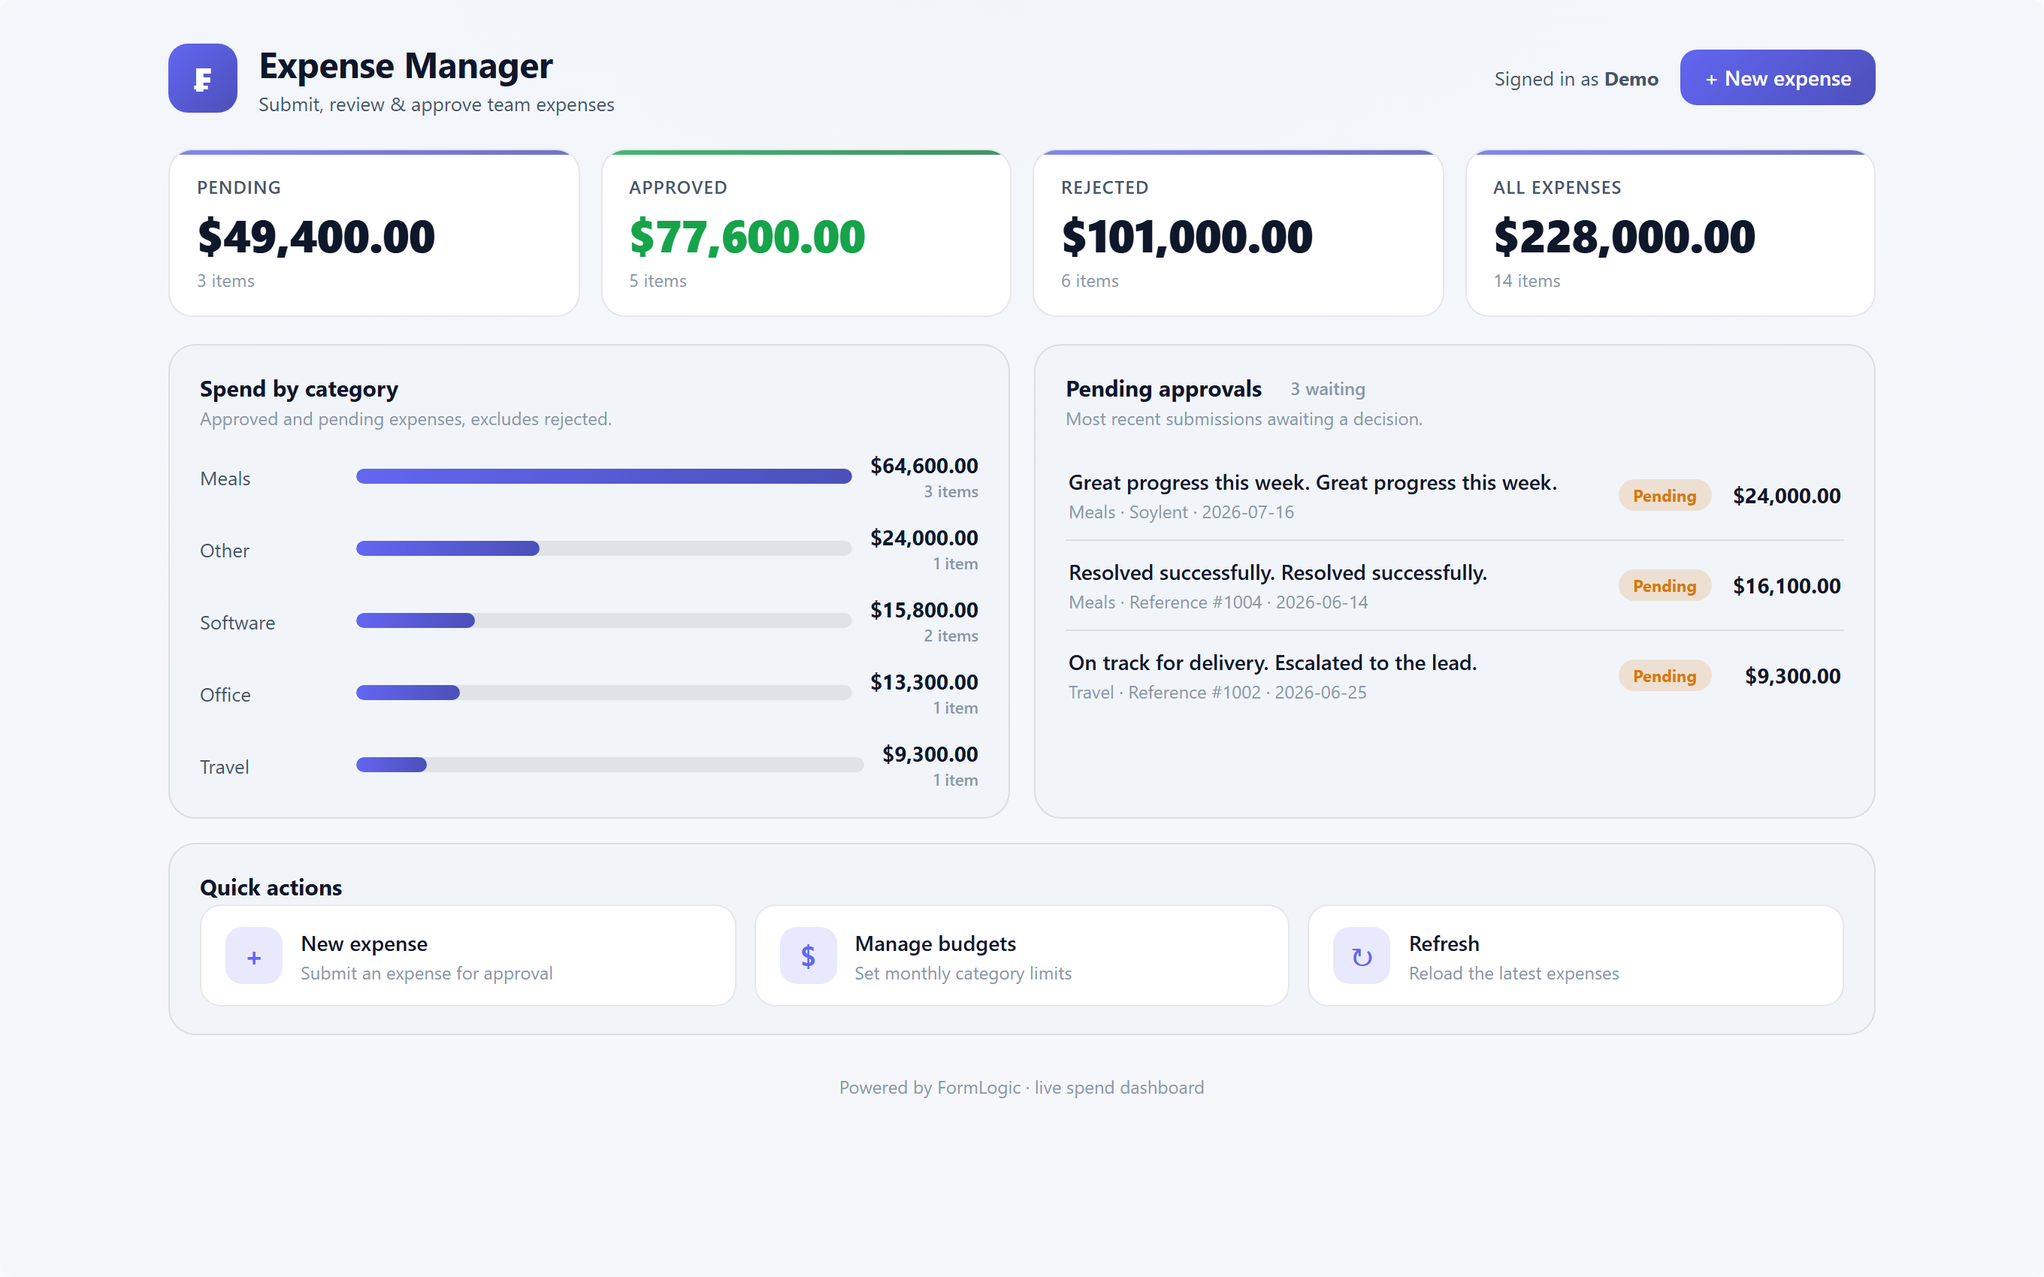
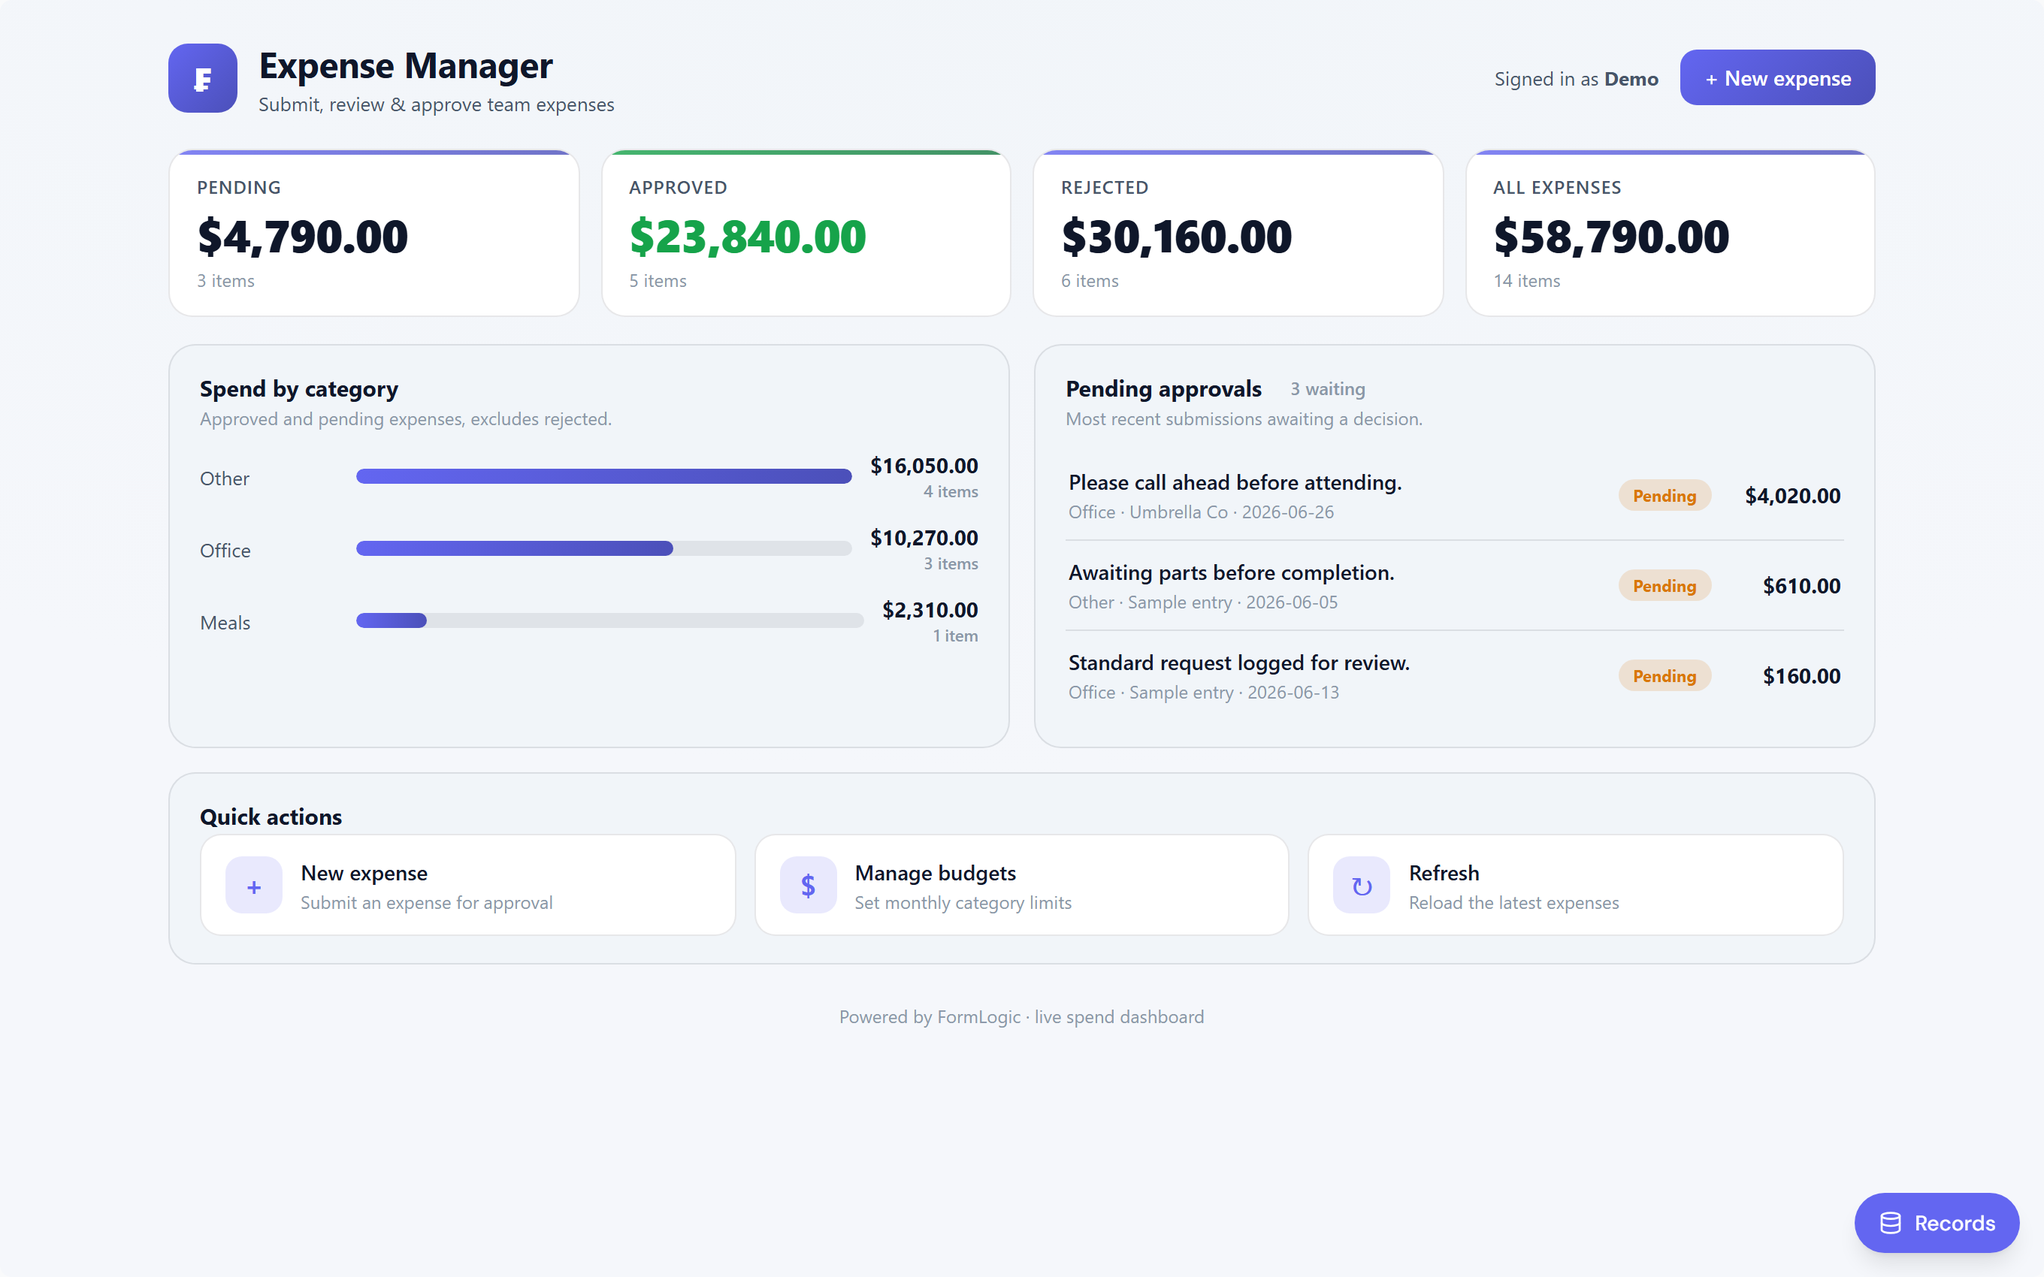
Demo data: domain-aware seeding + pack-manager thumbnails + repo cleanup
- Seeder is now domain-aware: it uses the FORM name + field label together, so
  demo data makes sense per app — Inventory shows real products + SKU codes,
  Mechanic shows car makes/models + plates, Salon shows services, invoices/POs
  get INV-/PO- refs, money vs quantity vs year/hours are distinguished, etc.
  (was: person names in every text field, e.g. a product named "Marie Curie").
- provision-demo.php gains RESEED_DEMO=1 to regenerate demo responses in place
  (clears each pack's responses + linked-record rows, re-seeds per pack) WITHOUT
  reinstalling, so app slugs + screenshots stay stable. All 16 dashboards
  re-captured with the improved data.
- Pack manager (Manage Packs / PackImportModal) now shows the dashboard preview
  thumbnail on each card, matching the marketplace gallery.
- Repo hygiene: removed 3 stale committed .sqlite form databases from
  backend/storage/forms (now gitignored) + added a .gitkeep so the dir persists.

Fresh install already ships everything needed: 13 marketplace-pack JSONs, 16
dashboard screenshots, and 3 sample apps are committed under backend/resources,
and `php scripts/provision-demo.php` seeds the whole catalog + populated demo.

Claude-Session: https://claude.ai/code/session_0126P4mQje54uEQ9gFusf58Y

diff --git a/form-builder/ui/src/components/builder/PackImportModal.tsx b/form-builder/ui/src/components/builder/PackImportModal.tsx
@@ -24,7 +24,7 @@ import {
 import { Button } from '../ui/Button';
 import { Modal } from '../ui/Modal';
 import { Badge } from '../ui/Badge';
-import { api, type PackData, type PackImportResult, type PackInstallation, type CatalogPack } from '../../lib/api';
+import { api, resolveFileUrl, type PackData, type PackImportResult, type PackInstallation, type CatalogPack } from '../../lib/api';
 import { toast } from '../../stores/toastStore';
 import { useFormStore } from '../../stores/formStore';
 import { useAppStore } from '../../stores/appStore';
@@ -501,6 +501,18 @@ export function PackImportModal({ isOpen, onClose, initialTab }: PackImportModal
                         onClick={() => setSelectedSlug(pack.slug)}
                         className="text-left p-4 rounded-xl border border-gray-200 dark:border-slate-800 bg-white dark:bg-slate-900/80 hover:border-primary-300 dark:hover:border-primary-500/40 hover:shadow-md hover:shadow-primary-500/5 transition-all cursor-pointer group"
                       >
+                        {/* Dashboard preview (captured screenshot) */}
+                        {pack.screenshot && (
+                          <div className="mb-3 aspect-[16/10] overflow-hidden rounded-lg border border-gray-100 dark:border-slate-800 bg-gray-50 dark:bg-slate-800">
+                            <img
+                              src={resolveFileUrl(pack.screenshot)}
+                              alt={`${pack.name} dashboard preview`}
+                              loading="lazy"
+                              className="h-full w-full object-cover object-top"
+                            />
+                          </div>
+                        )}
+
                         {/* Card header: icon + name row */}
                         <div className="flex items-center gap-3 mb-2">
                           <span className="text-2xl leading-none flex-shrink-0">{pack.icon || '📦'}</span>

diff --git a/form-builder/backend/scripts/provision-demo.php b/form-builder/backend/scripts/provision-demo.php
@@ -222,6 +222,34 @@ foreach ($sources as $s) {
     out("  demo: installed " . count($res['forms'] ?? []) . " forms / " . count($res['apps'] ?? []) . " apps, seeded $n responses");
 }
 
+// ── Optional: regenerate demo data in place (RESEED_DEMO=1) ──────────────────
+// Re-run the (domain-aware) seeder over ALREADY-installed demo apps without reinstalling — app slugs and
+// screenshots stay stable. Clears each pack's form responses + linked-record rows, then re-seeds per pack
+// so the 2-pass linked-record resolution stays within the pack. createResponse re-syncs response_count.
+if ($_ENV['RESEED_DEMO'] ?? getenv('RESEED_DEMO')) {
+    $instStmt = $pdo->prepare("SELECT form_ids FROM pack_installations WHERE user_id = ? ORDER BY installed_at");
+    $instStmt->execute([$demoId]);
+    $reseeded = 0; $packsReseeded = 0;
+    foreach ($instStmt->fetchAll(PDO::FETCH_COLUMN) as $fj) {
+        $formIds = json_decode((string) $fj, true) ?: [];
+        if (!$formIds) { continue; }
+        foreach ($formIds as $fid) {
+            if ($sqlite->formDatabaseExists($fid)) {
+                try {
+                    $db = $sqlite->getFormDatabase($fid);
+                    foreach (['responses', 'computed', 'tags', 'script_logs'] as $t) {
+                        try { $db->exec("DELETE FROM $t"); } catch (\Throwable $e) { /* table may not exist */ }
+                    }
+                } catch (\Throwable $e) { /* skip */ }
+            }
+            $pdo->prepare("DELETE FROM response_links WHERE source_form_id = ? OR target_form_id = ?")->execute([$fid, $fid]);
+        }
+        $reseeded += seedResponses($forms, $responses, array_map(static fn ($id) => ['id' => $id], $formIds));
+        $packsReseeded++;
+    }
+    out("RESEED: regenerated $reseeded responses across $packsReseeded demo pack(s)");
+}
+
 // ── Screenshot manifest + linking ───────────────────────────────────────────
 // Emit a manifest mapping each catalog pack → the demo app slug that renders its dashboard, so the
 // capture pipeline (ui/scripts/capture-pack-shots.mjs) can visit /app/<appSlug> and save
@@ -290,7 +318,7 @@ function seedResponses(FormService $formService, ResponseService $responseServic
     $defs = [];
     foreach ($createdForms as $cf) {
         $full = $formService->getForm($cf['id']);
-        if ($full) { $defs[$cf['id']] = $full['fields'] ?? []; }
+        if ($full) { $defs[$cf['id']] = ['title' => (string) ($full['title'] ?? ''), 'fields' => $full['fields'] ?? []]; }
     }
     $hasLink = static function (array $fields): bool {
         foreach ($fields as $f) { if (($f['type'] ?? '') === 'linked_record') { return true; } }
@@ -299,29 +327,31 @@ function seedResponses(FormService $formService, ResponseService $responseServic
     $seeded = []; // formId => [responseIds]
     $total = 0;
     // Pass A: forms with no linked_record.
-    foreach ($defs as $fid => $fields) {
-        if ($hasLink($fields)) { continue; }
-        $seeded[$fid] = seedForm($responseService, $fid, $fields, $seeded);
+    foreach ($defs as $fid => $def) {
+        if ($hasLink($def['fields'])) { continue; }
+        $seeded[$fid] = seedForm($responseService, $fid, $def, $seeded);
         $total += count($seeded[$fid]);
     }
     // Pass B: forms that reference others.
-    foreach ($defs as $fid => $fields) {
-        if (!$hasLink($fields)) { continue; }
-        $seeded[$fid] = seedForm($responseService, $fid, $fields, $seeded);
+    foreach ($defs as $fid => $def) {
+        if (!$hasLink($def['fields'])) { continue; }
+        $seeded[$fid] = seedForm($responseService, $fid, $def, $seeded);
         $total += count($seeded[$fid]);
     }
     return $total;
 }
 
 /** Create N plausible responses for one form. Returns the created response ids. */
-function seedForm(ResponseService $responseService, string $formId, array $fields, array $seeded): array
+function seedForm(ResponseService $responseService, string $formId, array $def, array $seeded): array
 {
+    $fields = $def['fields'] ?? [];
+    $formName = strtolower((string) ($def['title'] ?? ''));
     $ids = [];
     $count = random_int(9, 14);
     for ($i = 0; $i < $count; $i++) {
         $answers = [];
         foreach ($fields as $f) {
-            $v = genValue($f, $i, $seeded);
+            $v = genValue($f, $i, $seeded, $formName);
             if ($v !== null) { $answers[$f['id']] = $v; }
         }
         try {
@@ -334,18 +364,33 @@ function seedForm(ResponseService $responseService, string $formId, array $field
     return $ids;
 }
 
-/** Generate a plausible value for a field, or null to leave it empty. */
-function genValue(array $field, int $i, array $seeded)
+/**
+ * Generate a plausible value for a field, or null to leave it empty. Uses the FORM name + field label
+ * together (`$ctx`) so demo data is domain-relevant — a "Name" field in a Product form yields a product,
+ * in a Vehicle form the make/model yields a car, in a Salon Service form yields a service, etc.
+ */
+function genValue(array $field, int $i, array $seeded, string $formName = '')
 {
     $type = $field['type'] ?? 'short_text';
     $label = strtolower((string) ($field['label'] ?? $field['id'] ?? ''));
+    $ctx = trim($formName . ' ' . $label); // form + field context drives domain-aware values
     $props = $field['properties'] ?? [];
     $opts = $props['options'] ?? [];
 
     $NAMES = ['Ada Lovelace', 'Alan Turing', 'Grace Hopper', 'Katherine Johnson', 'Linus Pauling', 'Rosalind Franklin', 'Nikola Tesla', 'Marie Curie', 'Ada Byron', 'Claude Shannon', 'Dorothy Vaughan', 'Tim Berners-Lee'];
-    $COMPANIES = ['Acme Corp', 'Globex', 'Initech', 'Umbrella Co', 'Soylent', 'Hooli', 'Stark Industries', 'Wayne Enterprises', 'Wonka Inc', 'Cyberdyne'];
-    $WORDS = ['Follow-up required', 'Reviewed and approved', 'Pending manager sign-off', 'Great progress this week', 'Needs additional detail', 'On track for delivery', 'Escalated to the lead', 'Resolved successfully'];
+    $COMPANIES = ['Acme Corp', 'Globex', 'Initech', 'Umbrella Co', 'Soylent Foods', 'Hooli', 'Stark Industries', 'Wayne Enterprises', 'Wonka Inc', 'Cyberdyne Systems', 'Northwind Traders', 'Contoso Ltd'];
+    $PARTS = ['Brake Pads', 'Oil Filter', 'Spark Plug Set', 'Air Filter', 'Timing Belt', 'Alternator', 'Radiator Hose', 'Clutch Kit', 'Wiper Blades', 'Battery', 'Brake Disc', 'Fuel Pump'];
+    $PRODUCTS = ['Copper Pipe 15mm', 'PVC Elbow Joint', 'Silicone Sealant', 'Ball Valve', 'Cable Ties (100pk)', 'LED Downlight', 'Extension Lead', 'Safety Gloves', 'Paint Roller Set', 'Masking Tape', 'Cordless Drill', 'Screw Assortment'];
+    $SERVICES = ['Cut & Blow Dry', 'Full Head Colour', 'Balayage', 'Gel Manicure', 'Facial Treatment', 'Deep Tissue Massage', 'Beard Trim', 'Highlights', 'Keratin Treatment', 'Pedicure'];
+    $CAR_MAKES = ['Toyota', 'Ford', 'Mazda', 'Honda', 'Hyundai', 'Volkswagen', 'Subaru', 'Nissan', 'Kia', 'Holden'];
+    $CAR_MODELS = ['Corolla', 'Ranger', 'CX-5', 'Civic', 'i30', 'Golf', 'Outback', 'X-Trail', 'Cerato', 'Commodore'];
+    $STREETS = ['Baker Street', 'Elm Avenue', 'Maple Court', 'King Road', 'Station Street', 'Harbour Lane', 'Victoria Parade', 'Rosewood Drive', 'George Street', 'Park Terrace'];
+    $CITIES = ['Springfield', 'Riverton', 'Fairview', 'Lakeside', 'Newport', 'Ashford'];
+    $WORDS = ['Follow-up required', 'Reviewed and approved', 'Pending manager sign-off', 'On track for delivery', 'Escalated to the lead', 'Resolved successfully'];
     $rand = static fn (array $a) => $a[array_rand($a)];
+    $has = static function (string $s, array $kw): bool { foreach ($kw as $k) { if (str_contains($s, $k)) { return true; } } return false; };
+    $addr = static fn () => random_int(1, 199) . ' ' . $STREETS[array_rand($STREETS)] . ', ' . $CITIES[array_rand($CITIES)];
+    $code = static fn (string $p) => $p . '-' . str_pad((string) (1001 + $i), 4, '0', STR_PAD_LEFT);
 
     $optValue = static function (array $opts) {
         if (empty($opts)) { return null; }
@@ -355,20 +400,45 @@ function genValue(array $field, int $i, array $seeded)
 
     switch ($type) {
         case 'short_text':
-            if (str_contains($label, 'name') && !str_contains($label, 'company') && !str_contains($label, 'file') && !str_contains($label, 'user')) {
+            // Codes / reference numbers
+            if ($has($ctx, ['sku', 'item code', 'product code', 'part number', 'part no'])) { return 'SKU-' . str_pad((string) (1000 + $i), 5, '0', STR_PAD_LEFT); }
+            if ($has($ctx, ['invoice']) && $has($ctx, ['number', ' no', 'ref', '#'])) { return $code('INV'); }
+            if ($has($ctx, ['purchase order', 'po number', 'p.o']) || ($has($ctx, ['order']) && $has($ctx, ['number', ' no', '#']))) { return $code('PO'); }
+            if ($has($ctx, ['quote']) && $has($ctx, ['number', ' no', 'ref', '#'])) { return $code('QT'); }
+            if ($has($ctx, ['reference', 'ref no', 'ticket', 'case number', 'job number', 'work order number'])) { return $code('REF'); }
+            if ($has($ctx, ['registration', 'rego', 'number plate', 'plate', 'licence plate', 'license plate'])) { return strtoupper($rand(['ABC', 'XYZ', 'QRS', 'JKL', 'MNP', 'TRK'])) . '-' . random_int(100, 999); }
+            if ($has($ctx, ['vin', 'chassis'])) { return strtoupper(substr(bin2hex(random_bytes(9)), 0, 17)); }
+            // Domain nouns (form context matters: a "Name" in a Product/Vehicle/Service form isn't a person)
+            if ($has($ctx, ['make']) && !$has($ctx, ['maker', 'remake'])) { return $rand($CAR_MAKES); }
+            if ($has($ctx, ['model'])) { return $rand($CAR_MODELS); }
+            if ($has($ctx, ['service']) && !$has($ctx, ['customer service'])) { return $rand($SERVICES); }
+            if ($has($ctx, ['part', 'material', 'component'])) { return $rand($PARTS); }
+            if ($has($ctx, ['product', 'item', 'stock'])) { return $rand($PRODUCTS); }
+            if ($has($ctx, ['address', 'street', 'site'])) { return $addr(); }
+            if ($has($ctx, ['supplier', 'vendor', 'company', 'business', 'organization', 'organisation', 'employer', 'agency', 'manufacturer', 'brand'])) { return $rand($COMPANIES); }
+            // People
+            if ($has($ctx, ['name', 'client', 'customer', 'patient', 'contact', 'tenant', 'stylist', 'technician', 'provider', 'staff', 'assigned', 'attendee', 'applicant', 'employee', 'owner', 'manager'])
+                && !$has($ctx, ['file', 'username', 'filename'])) {
                 $full = $rand($NAMES);
-                if (str_contains($label, 'first') || str_contains($label, 'given')) { return explode(' ', $full)[0]; }
-                if (str_contains($label, 'last') || str_contains($label, 'surname') || str_contains($label, 'family')) { return explode(' ', $full)[1] ?? 'Smith'; }
+                if ($has($ctx, ['first', 'given'])) { return explode(' ', $full)[0]; }
+                if ($has($ctx, ['last', 'surname', 'family'])) { return explode(' ', $full)[1] ?? 'Smith'; }
                 return $full;
             }
-            if (str_contains($label, 'company') || str_contains($label, 'organization') || str_contains($label, 'organisation') || str_contains($label, 'employer') || str_contains($label, 'vendor')) {
-                return $rand($COMPANIES);
-            }
-            if (str_contains($label, 'title') || str_contains($label, 'subject') || str_contains($label, 'position') || str_contains($label, 'role')) {
+            if ($has($ctx, ['title', 'subject', 'position', 'role'])) {
                 return $rand(['Q3 Review', 'Onboarding kit', 'System access', 'Budget approval', 'Site inspection', 'Client meeting', 'Policy update']);
             }
-            return $rand(['Sample entry', 'Reference #' . (1000 + $i), $rand($COMPANIES), $rand($WORDS)]);
+            return $rand(['Sample entry', $code('REF'), $rand($COMPANIES)]);
         case 'long_text':
+            if ($has($ctx, ['address'])) { return $addr(); }
+            if ($has($ctx, ['complaint', 'problem', 'issue', 'fault', 'symptom'])) {
+                return $rand(['Intermittent fault reported by the customer.', 'Not working as expected since last week.', 'Making an unusual noise under load.', 'Needs inspection and diagnosis.', 'Reported shortly after the last service.']);
+            }
+            if ($has($ctx, ['performed', 'work done', 'resolution', 'action taken'])) {
+                return $rand(['Completed the requested work and tested.', 'Replaced the faulty part and verified operation.', 'Serviced, cleaned and signed off.', 'Diagnosed the issue and scheduled a follow-up.']);
+            }
+            if ($has($ctx, ['description', 'reason', 'notes', 'detail', 'summary', 'comment', 'instruction', 'preference', 'medication', 'work'])) {
+                return $rand(['Standard request logged for review.', 'Customer prefers a morning appointment.', 'Follow-up required within the week.', 'Awaiting parts before completion.', 'Routine item, no issues noted.', 'Please call ahead before attending.']);
+            }
             return $rand($WORDS) . '. ' . $rand($WORDS) . '.';
         case 'email':
             $n = strtolower(str_replace(' ', '.', $rand($NAMES)));
@@ -381,12 +451,16 @@ function genValue(array $field, int $i, array $seeded)
             $min = isset($props['min']) ? (int) $props['min'] : 0;
             $max = isset($props['max']) ? (int) $props['max'] : 0;
             if ($max > $min) { return random_int($min, $max); }
-            if (str_contains($label, 'amount') || str_contains($label, 'cost') || str_contains($label, 'value') || str_contains($label, 'price') || str_contains($label, 'budget') || str_contains($label, 'salary') || str_contains($label, 'aum')) {
-                return random_int(5, 250) * 100;
+            if ($has($ctx, ['year'])) { return random_int(2015, 2024); }
+            if ($has($ctx, ['odometer', 'mileage', 'kms', ' km'])) { return random_int(15, 190) * 1000; }
+            if ($has($ctx, ['duration', 'minute', 'mins'])) { return $rand([15, 30, 45, 60, 90, 120]); }
+            if ($has($ctx, ['hour'])) { return random_int(1, 8); }
+            if ($has($ctx, ['lead time', 'lead-time', 'days'])) { return random_int(1, 14); }
+            if ($has($ctx, ['reorder', 'on hand', 'on-hand', 'stock', 'quantity', 'qty', 'count', 'units'])) { return random_int(0, 80); }
+            if ($has($ctx, ['amount', 'cost', 'value', 'price', 'budget', 'salary', 'aum', 'total', 'subtotal', 'tax', 'fee', 'rate', 'labour', 'labor', 'parts', 'paid'])) {
+                return random_int(5, 950) * 10;
             }
-            if (str_contains($label, 'day') || str_contains($label, 'qty') || str_contains($label, 'quantity') || str_contains($label, 'count') || str_contains($label, 'score') || str_contains($label, 'age')) {
-                return random_int(1, 30);
-            }
+            if ($has($ctx, ['age'])) { return random_int(18, 75); }
             return random_int(1, 100);
         }
         case 'dropdown':
